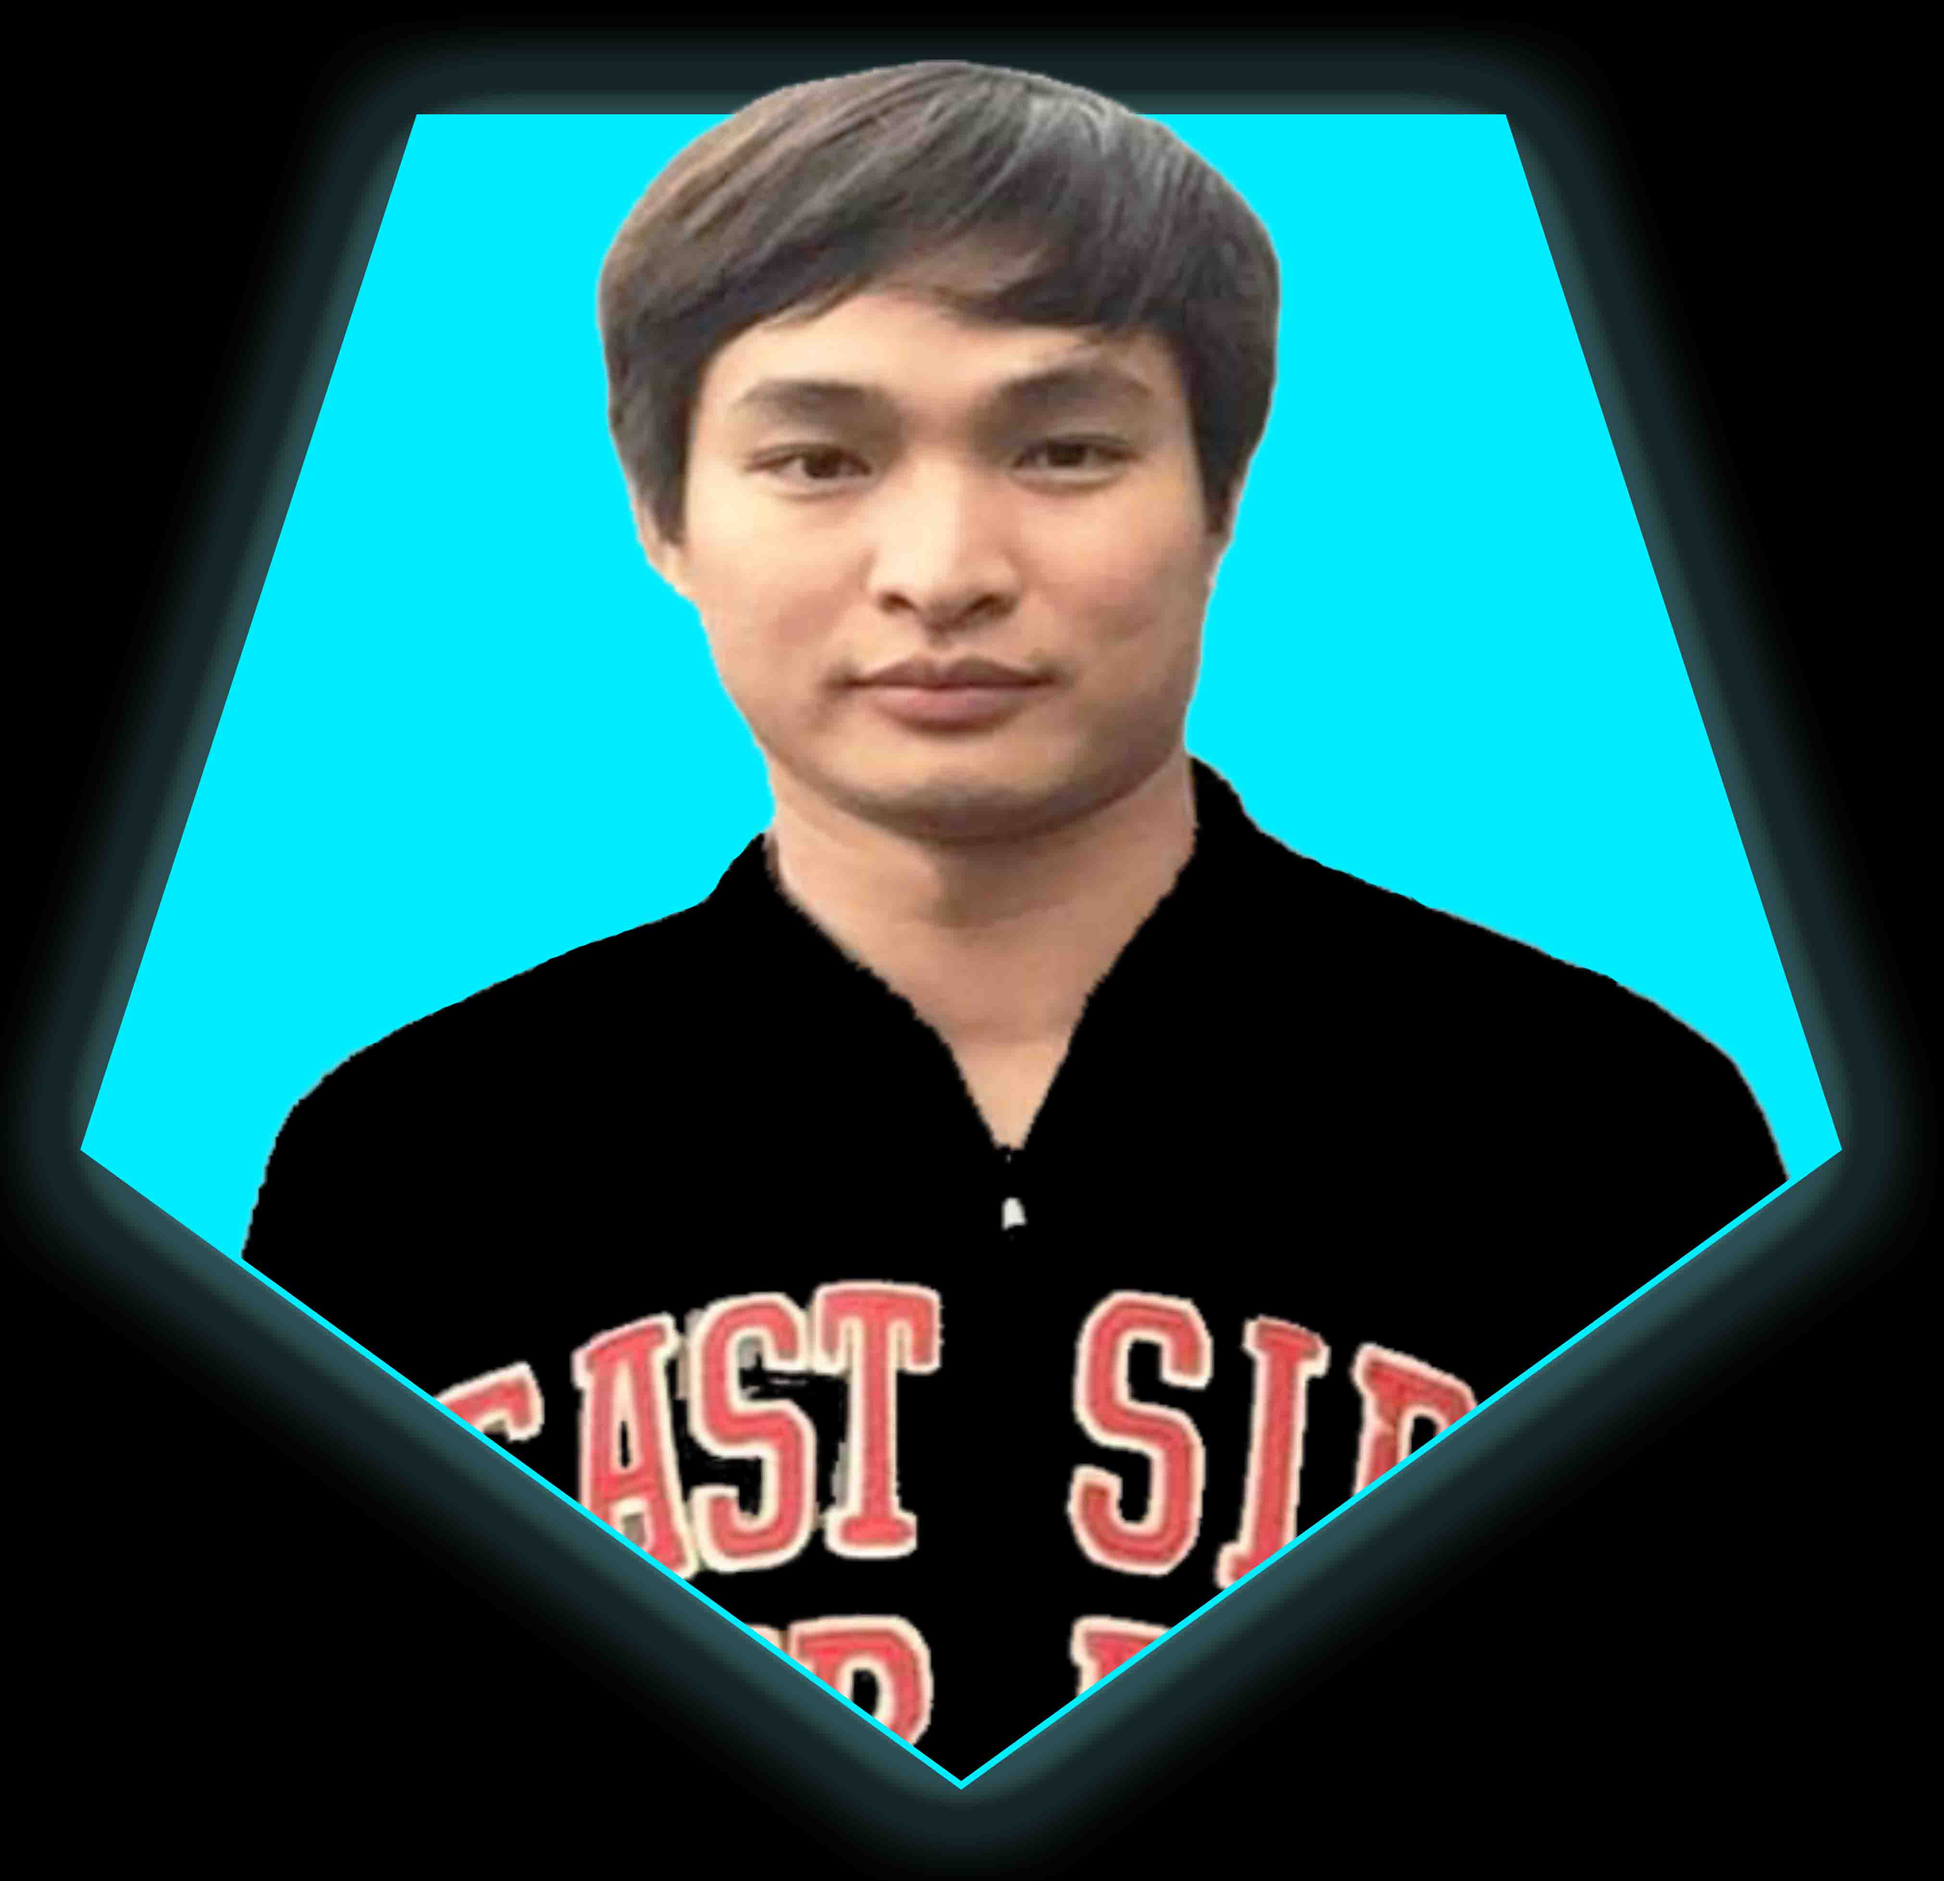
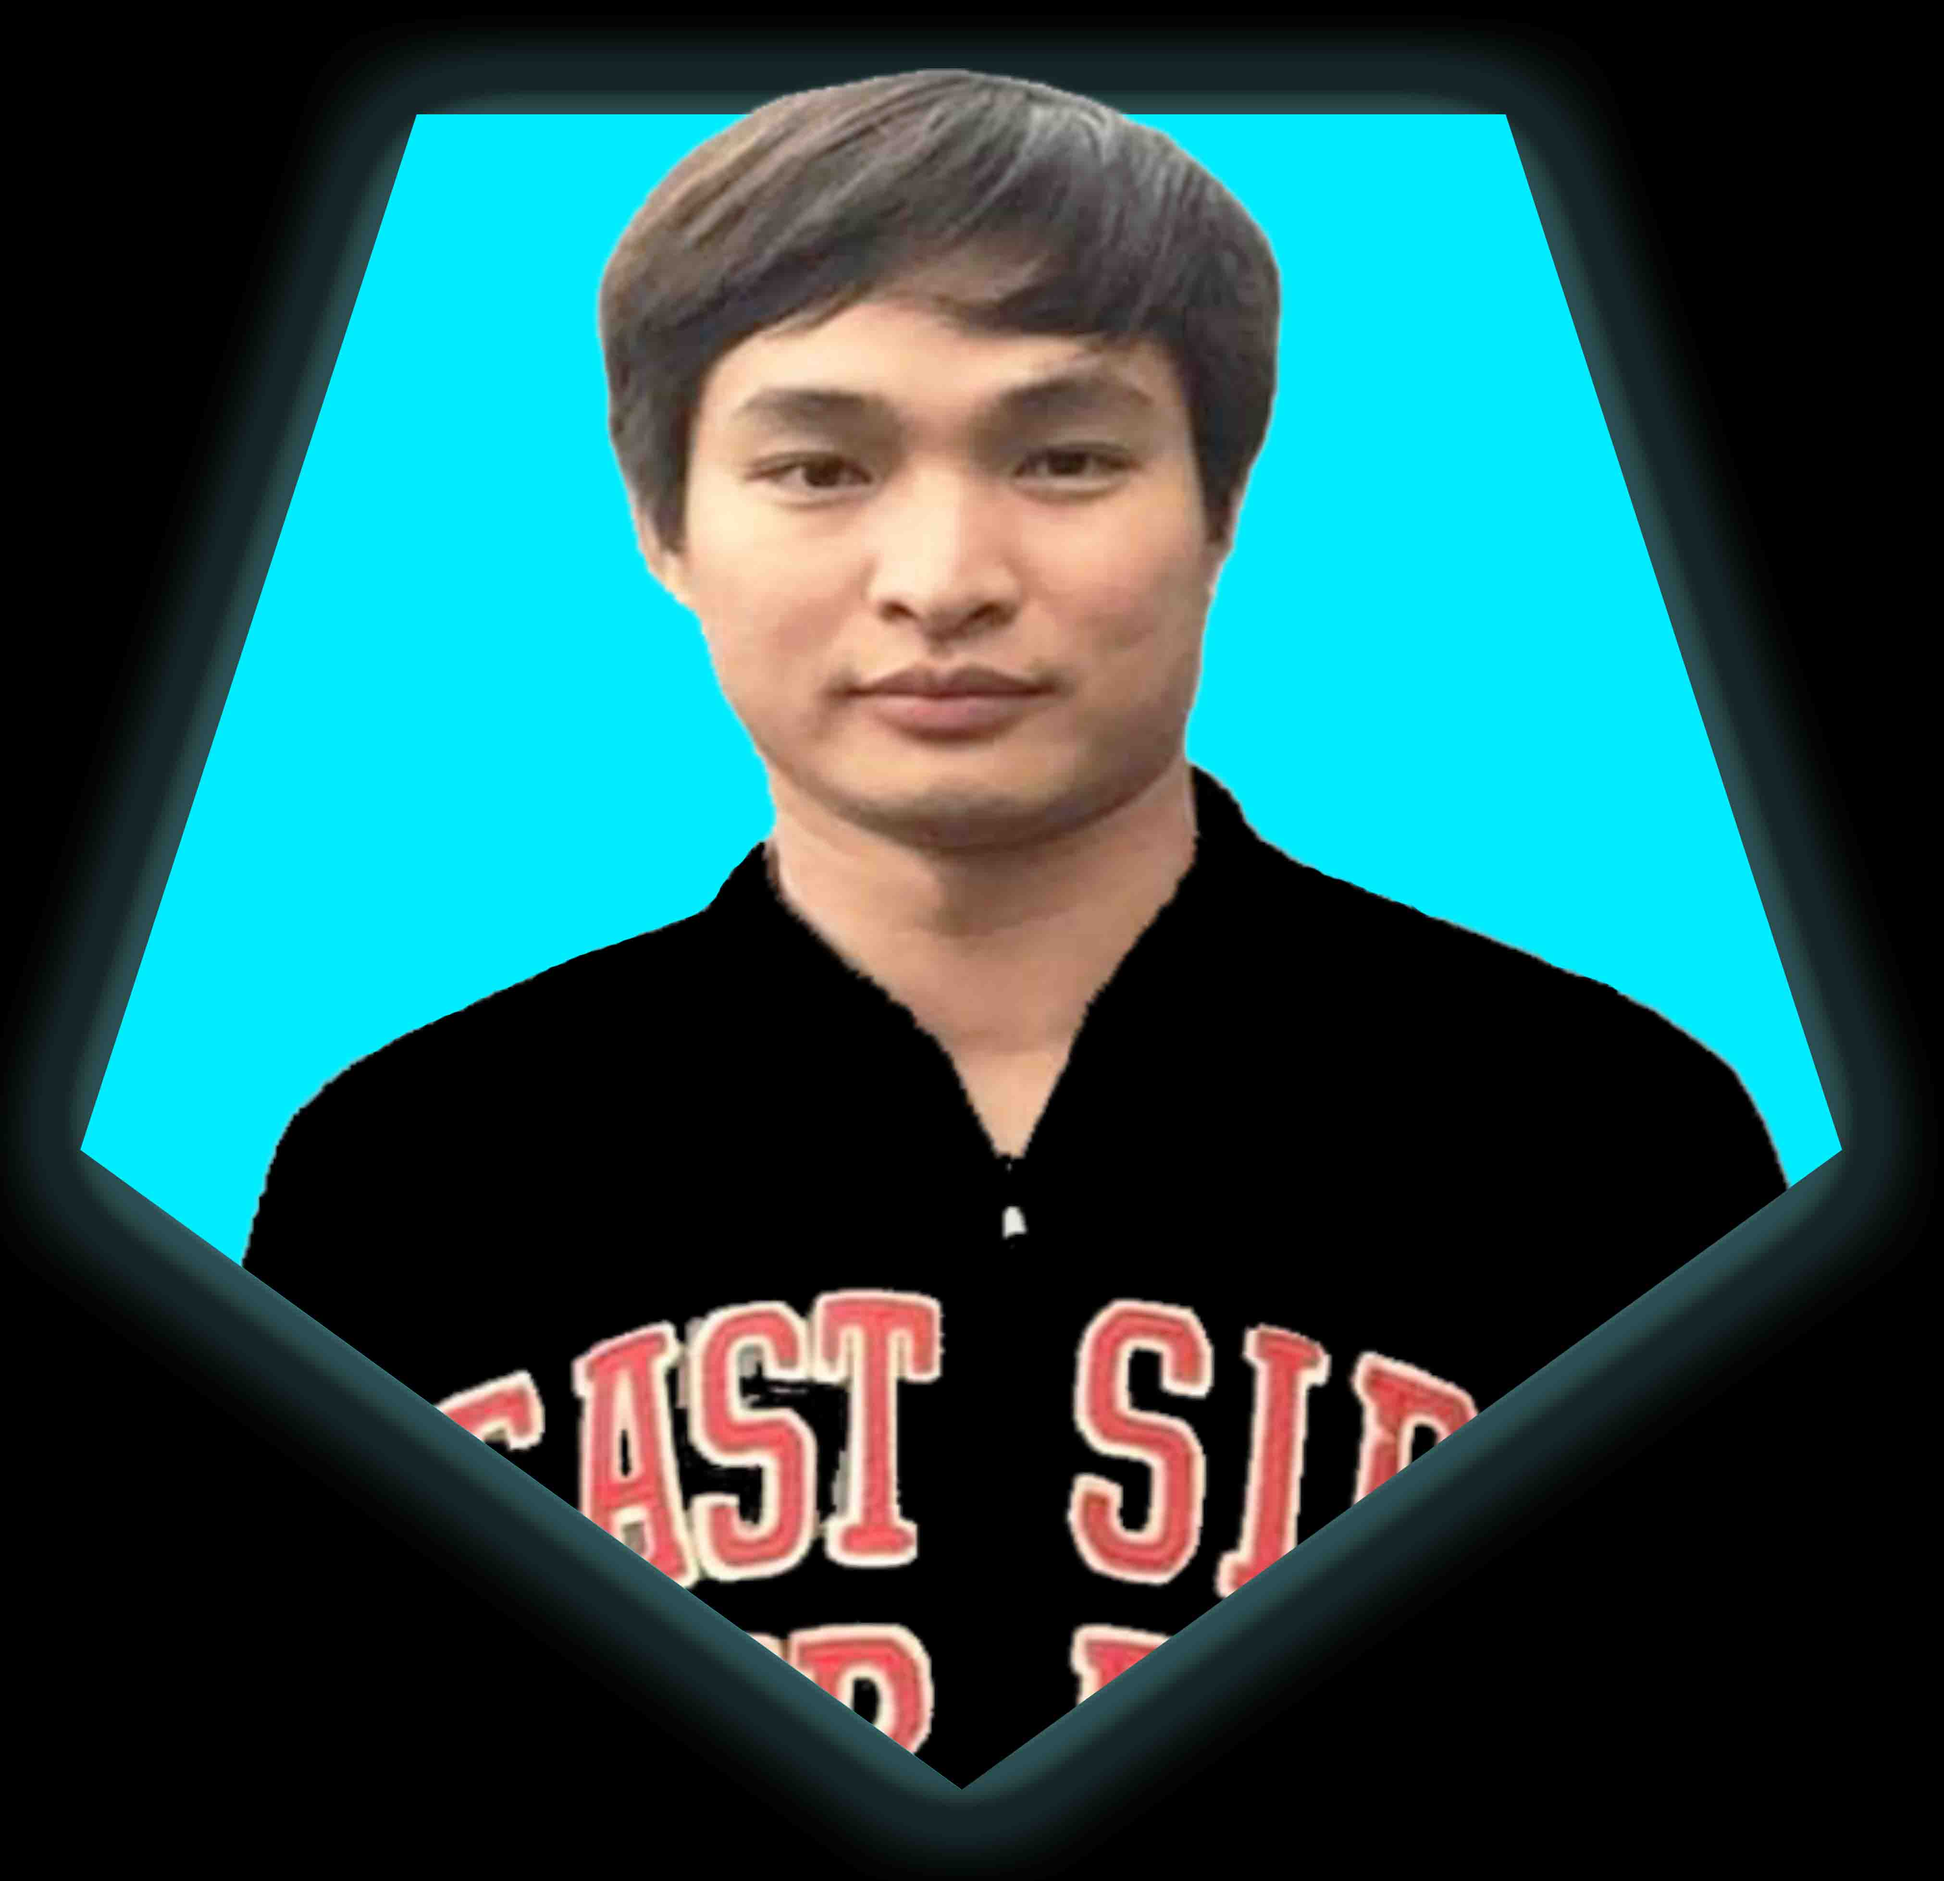
photo

diff --git a/src/views/Home.vue b/src/views/Home.vue
@@ -18,7 +18,7 @@
         <!-- Right Column for Image -->
         <div :class="['col-lg-6', animate ? 'fly-in-right' : '']">
           <div class="hexagon-wrapper">
-            <img src="images/photo1.jpg" alt="Rotha Sok" />
+            <img src="images/photo2.jpg" alt="Rotha Sok" />
           </div>
         </div>
       </div>
@@ -78,7 +78,7 @@ body {
 
 /* Container for Intro Section */
 .intro {
-  padding: 50px 0;
+  padding: 20px 0;
   overflow: hidden; /* Ensure no overflow during animation */
 }
 
@@ -139,8 +139,8 @@ body {
 /* Media query for screens smaller than 550px */
 @media (max-width: 550px) {
   .hexagon-wrapper {
-    width: 300px; /* Adjust width for smaller screens */
-    height: 300px; /* Adjust height for smaller screens */
+    width: 400px; /* Adjust width for smaller screens */
+    height: 400px; /* Adjust height for smaller screens */
   }
 
   .hexagon-wrapper img {
@@ -182,7 +182,7 @@ body {
 
 /* Skills Section */
 .skills {
-  padding: 50px 0;
+  padding: 20px 0;
 }
 
 /* Additional styles for sections */
